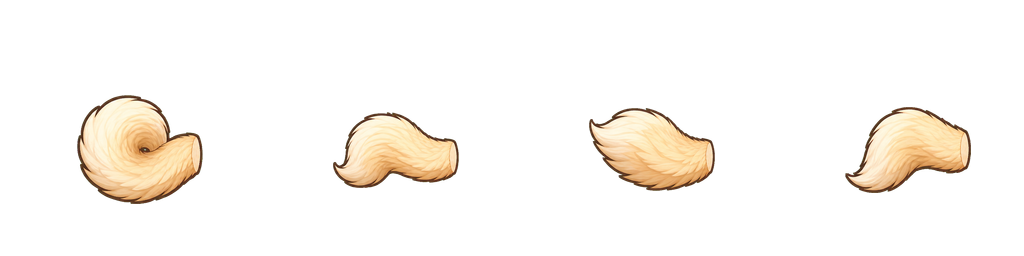
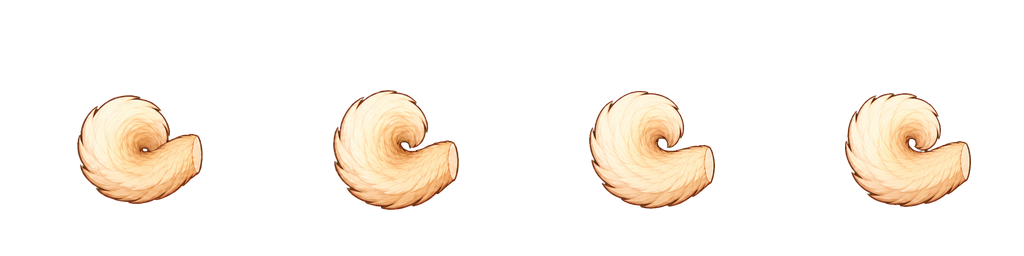
feat: 말린 꼬리 부채꼴 모션 적용

diff --git a/src/game/player/PlayerView.ts b/src/game/player/PlayerView.ts
@@ -32,6 +32,7 @@ const TAIL_ROOT_ORIGIN_X = TAIL_ROOT_X / 256;
 const TAIL_ROOT_ORIGIN_Y = TAIL_ROOT_Y / 256;
 export const TAIL_SWIPE_VISUAL_SCALE = 2;
 export const TAIL_SWIPE_LAST_FRAME_HOLD_MS = 800;
+export const TAIL_SWIPE_SWEEP_MS = 250;
 export const TAIL_SWIPE_BODY_DURATION_MS =
   (TAIL_OVERLAY_ENTRY.frameCount - 1) * 1000 / TAIL_OVERLAY_ENTRY.fps
   + TAIL_SWIPE_LAST_FRAME_HOLD_MS;
@@ -43,6 +44,24 @@ export function tailOverlayRoot(position: Point, facingLeft: boolean): Point {
   return {
     x: position.x + (facingLeft ? -HUCHU_RUMP_OFFSET_X : HUCHU_RUMP_OFFSET_X),
     y: position.y + HUCHU_RUMP_OFFSET_Y,
+  };
+}
+
+export interface TailSweepTransform {
+  readonly rootOffset: Point;
+  readonly rotationDeg: number;
+}
+
+export function tailSweepTransformAt(
+  elapsedMs: number,
+  facingLeft: boolean,
+): TailSweepTransform {
+  assertFiniteNonNegative(elapsedMs, 'Tail sweep elapsedMs');
+  const progress = Math.min(1, elapsedMs / TAIL_SWIPE_SWEEP_MS);
+  const rotationDeg = 180 * (1 - progress);
+  return {
+    rootOffset: { x: 0, y: 0 },
+    rotationDeg: facingLeft ? -rotationDeg : rotationDeg,
   };
 }
 
@@ -67,6 +86,10 @@ export class PlayerView implements ImpactFeedbackTarget {
   private position: Point;
   private facingLeft = false;
   private tailActive = false;
+  private tailSweepTransform: TailSweepTransform = {
+    rootOffset: { x: 0, y: 0 },
+    rotationDeg: 0,
+  };
   private flashRemainingMs = 0;
   private defeatedHold = false;
   private recoilState: {
@@ -122,6 +145,10 @@ export class PlayerView implements ImpactFeedbackTarget {
       .setScale(BASE_SCALE * breathScale)
       .setDepth(snapshot.y);
     if (this.tailActive) {
+      this.tailSweepTransform = tailSweepTransformAt(
+        snapshot.bodyAction?.elapsedMs ?? 0,
+        this.facingLeft,
+      );
       this.tailSprite
         .setTexture(TAIL_OVERLAY_ENTRY.key)
         .setFrame(animationFrameAt(
@@ -133,7 +160,8 @@ export class PlayerView implements ImpactFeedbackTarget {
         .setVisible(true)
         .setDepth(snapshot.y + 0.1);
     } else {
-      this.tailSprite.setVisible(false);
+      this.tailSweepTransform = { rootOffset: { x: 0, y: 0 }, rotationDeg: 0 };
+      this.tailSprite.setVisible(false).setAngle(0);
     }
     this.applyFeedbackTransform(BASE_SCALE * breathScale);
     this.hp.render(
@@ -289,9 +317,10 @@ export class PlayerView implements ImpactFeedbackTarget {
       const popScale = 1 + ((recoil?.popScale ?? 1) - 1) * progress;
       this.tailSprite
         .setPosition(
-          tailRoot.x + recoilX,
-          tailRoot.y + recoilY,
+          tailRoot.x + this.tailSweepTransform.rootOffset.x + recoilX,
+          tailRoot.y + this.tailSweepTransform.rootOffset.y + recoilY,
         )
+        .setAngle(this.tailSweepTransform.rotationDeg)
         .setScale(BASE_SCALE * TAIL_SWIPE_VISUAL_SCALE * popScale)
         .setFlipX(this.facingLeft)
         .setAlpha(this.defeatedHold ? 0.72 : 1);

diff --git a/tests/unit/PlayerViewImpactAction.test.ts b/tests/unit/PlayerViewImpactAction.test.ts
@@ -4,6 +4,7 @@ import {
   PlayerView,
   TAIL_SWIPE_BODY_DURATION_MS,
   TAIL_SWIPE_LAST_FRAME_HOLD_MS,
+  tailSweepTransformAt,
 } from '../../src/game/player/PlayerView';
 import * as PlayerViewModule from '../../src/game/player/PlayerView';
 import { PresentationTelemetry } from '../../src/game/presentation/PresentationTelemetry';
@@ -103,6 +104,51 @@ it('꼬리 오버레이 뿌리는 후추 엉덩이 좌표를 좌우 대칭으로
   if (tailOverlayRoot === undefined) return;
   expect(tailOverlayRoot({ x: 270, y: 650 }, false)).toEqual({ x: 256, y: 605 });
   expect(tailOverlayRoot({ x: 270, y: 650 }, true)).toEqual({ x: 284, y: 605 });
+});
+
+it('말린 꼬리는 뿌리를 고정하고 우→상→좌 부채꼴을 좌우 대칭으로 보간한다', () => {
+  expect(tailSweepTransformAt(0, false)).toEqual({
+    rootOffset: { x: 0, y: 0 }, rotationDeg: 180,
+  });
+  expect(tailSweepTransformAt(125, false)).toEqual({
+    rootOffset: { x: 0, y: 0 }, rotationDeg: 90,
+  });
+  expect(tailSweepTransformAt(250, false)).toEqual({
+    rootOffset: { x: 0, y: 0 }, rotationDeg: 0,
+  });
+  expect(tailSweepTransformAt(125, true)).toEqual({
+    rootOffset: { x: 0, y: 0 }, rotationDeg: -90,
+  });
+  expect(tailSweepTransformAt(1050, true)).toEqual({
+    rootOffset: { x: 0, y: 0 }, rotationDeg: -0,
+  });
+});
+
+it('PlayerView는 보간 각도를 꼬리 sprite에 적용하고 250ms 뒤 마지막 자세를 유지한다', () => {
+  const fake = createScene();
+  const view = new PlayerView(fake.scene as never, { x: 270, y: 650 }, {} as never);
+
+  view.render({
+    x: 270, y: 650, worldAnimationMs: 0, moving: false,
+    bodyAction: { kind: 'tailSwipe', elapsedMs: 125 },
+  });
+  expect(fake.spriteLast(1, 'setAngle')).toEqual([90]);
+  expect(fake.spriteLast(1, 'setPosition')).toEqual([256, 605]);
+
+  view.render({
+    x: 270, y: 650, worldAnimationMs: 0, moving: false,
+    bodyAction: { kind: 'tailSwipe', elapsedMs: 900 },
+  });
+  expect(fake.spriteLast(1, 'setAngle')).toEqual([0]);
+  expect(fake.spriteLast(1, 'setPosition')).toEqual([256, 605]);
+
+  view.attackOrigin({ x: 270, y: 650 }, { x: 170, y: 650 });
+  view.render({
+    x: 270, y: 650, worldAnimationMs: 0, moving: false,
+    bodyAction: { kind: 'tailSwipe', elapsedMs: 125 },
+  });
+  expect(fake.spriteLast(1, 'setAngle')).toEqual([-90]);
+  expect(fake.spriteLast(1, 'setPosition')).toEqual([284, 605]);
 });
 
 it('공격 시각 효과는 좌우 대상에 맞춘 후추 입에서 시작한다', () => {

diff --git a/tests/assets/tail-swipe-assets.test.ts b/tests/assets/tail-swipe-assets.test.ts
@@ -48,4 +48,40 @@ describe('tail swipe layered assets', () => {
     expect(row.outlineAt390).toBeNull();
     expect(row.cssWidth).toBeCloseTo(256 * (72 / 204) * 2 * (390 / 540), 9);
   });
+
+  it('네 프레임 모두 직선 plume이 아닌 말린 꼬리의 compact silhouette를 갖는다', async () => {
+    expect(overlay).toBeDefined();
+    if (overlay === undefined) return;
+    const { data, info } = await sharp(overlay.source)
+      .ensureAlpha()
+      .raw()
+      .toBuffer({ resolveWithObject: true });
+
+    const ratios = Array.from({ length: overlay.frameCount }, (_, frame) => {
+      const frameLeft = frame * overlay.frameWidth;
+      let minX = overlay.frameWidth;
+      let maxX = -1;
+      let minY = overlay.frameHeight;
+      let maxY = -1;
+      for (let y = 0; y < overlay.frameHeight; y += 1) {
+        for (let x = 0; x < overlay.frameWidth; x += 1) {
+          if ((sample(frameLeft + x, y, data, info.width) ?? 0) <= 16) continue;
+          minX = Math.min(minX, x);
+          maxX = Math.max(maxX, x);
+          minY = Math.min(minY, y);
+          maxY = Math.max(maxY, y);
+        }
+      }
+      const width = maxX - minX + 1;
+      const height = maxY - minY + 1;
+      expect(height).toBeGreaterThanOrEqual(100);
+      return width / height;
+    });
+
+    ratios.forEach((ratio) => expect(ratio).toBeLessThanOrEqual(1.2));
+  });
 });
+
+function sample(x: number, y: number, data: Buffer, width: number): number | undefined {
+  return data[(y * width + x) * 4 + 3];
+}
